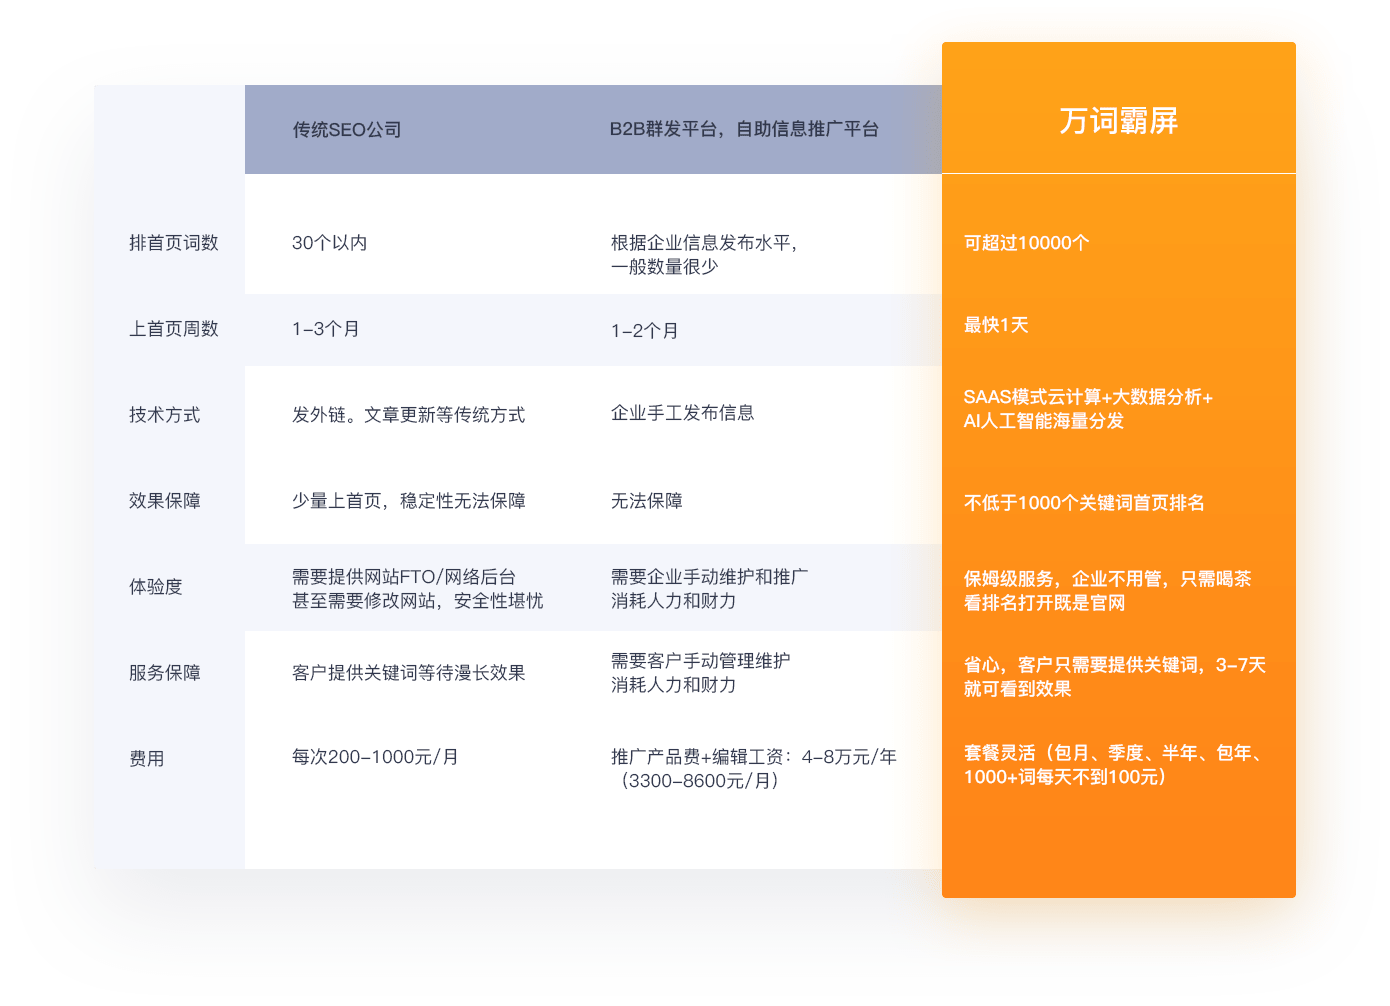
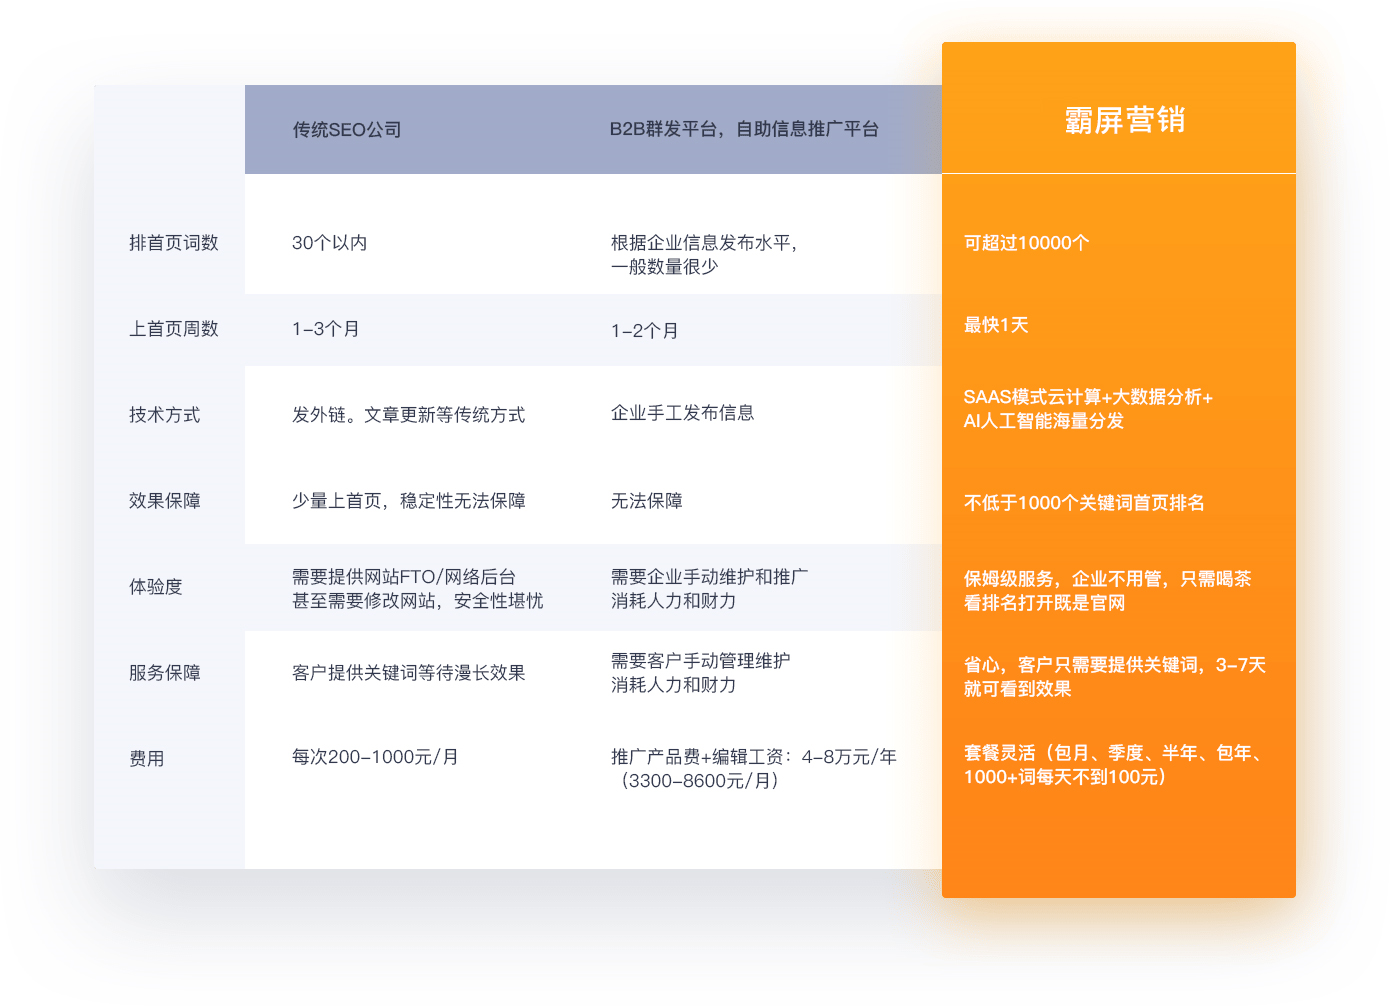
Signed-off-by: freezingChb <123@qq.com>

diff --git a/src/views/seo.vue b/src/views/seo.vue
@@ -1,7 +1,7 @@
 <template>
   <div class="seo">
     <div class="banner">
-      <!-- <p class="tit">万词霸屏</p>
+      <!-- <p class="tit">霸屏营销</p>
       <p class="desc">0风险效果保证！承诺7个工作日，数量不达标，全额退款
         快速启动网络营销项目，时间最快，成本最低，见效快
         24小时在线， 点击不扣费
@@ -36,14 +36,14 @@
     </div>
     <div class="more">
       <dl>
-        <dt>万词霸屏</dt>
-        <dd class="em" v-text="'万词霸屏主要为企业提供便捷、高效、智能、安\n全、可监测的全搜索引擎关键词首页抢排名位的\n推广服务。\n\n帮助客户霸屏全网搜索引擎，为客户解决网络营\n销困局。'">
+        <dt>霸屏营销</dt>
+        <dd class="em" v-text="'霸屏营销主要为企业提供便捷、高效、智能、安\n全、可监测的全搜索引擎关键词首页抢排名位的\n推广服务。\n\n帮助客户霸屏全网搜索引擎，为客户解决网络营\n销困局。'">
         </dd>
       </dl>
     </div>
     <div class="why-do">
       <div class="tit">
-        <p class="txt">为什么要做万词霸屏</p>
+        <p class="txt">为什么要做霸屏营销</p>
         <p class="bottom"></p>
       </div>
       <ul class="whydo-list">

diff --git a/src/views/index.vue b/src/views/index.vue
@@ -74,7 +74,7 @@
     </div>
     <div class="more">
       <dl>
-        <dt>掌投平台是目前国内效果突出的一站式品牌营销供应商，凭借敏锐的市场洞察和多年深耕行业的经验，掌投平台拥有短视频营销、小红书推广、万词霸屏、网红直播、软文营销等近万家优质营销资源。</dt>
+        <dt>掌投平台是目前国内效果突出的一站式品牌营销供应商，凭借敏锐的市场洞察和多年深耕行业的经验，掌投平台拥有短视频营销、小红书推广、霸屏营销、网红直播、软文营销等近万家优质营销资源。</dt>
         <dd class="desc">
           掌投平台一直秉承“去中间化赋能新营销”为核心，帮助广告代理商深度挖掘客户价值，实现整合资源的最佳收益，打造属于自己的商业闭环。</dd>
         <dd class="more-btn" @click="jump('about')">
@@ -134,7 +134,7 @@ export default {
         {
           icon: "01-5-min.png",
           iconHover: "01-13-min.png",
-          tit: "万词霸屏",
+          tit: "霸屏营销",
           path: "seo"
         },
         {

diff --git a/src/views/about.vue b/src/views/about.vue
@@ -12,7 +12,7 @@
         <p class="txt">公司介绍</p>
         <p class="bottom"></p>
       </div>
-      <p class="intro-txt">掌投平台是目前国内效果突出的一站式品牌营销供应商，凭借敏锐的市场洞察和多年深耕行业的经验，掌投平台拥有短视频营销、小红书推广、万词霸屏、网红直播、软文营销等近万家优质营销资源。
+      <p class="intro-txt">掌投平台是目前国内效果突出的一站式品牌营销供应商，凭借敏锐的市场洞察和多年深耕行业的经验，掌投平台拥有短视频营销、小红书推广、霸屏营销、网红直播、软文营销等近万家优质营销资源。
 
         掌投平台一直秉承“去中间化赋能新营销”为核心，帮助广告代理商深度挖掘客户价值，实现整合资源的最佳收益，打造属于自己的商业闭环。</p>
       <div class="intro-img"></div>

diff --git a/src/router/index.js b/src/router/index.js
@@ -6,7 +6,7 @@ import about from "@/views/about"; //关于我们
 import help from "@/views/help"; //帮助中心
 import wechat from "@/views/wechat"; //微信营销
 import qa from "@/views/qa"; //问答营销
-import seo from "@/views/seo"; //万词霸屏
+import seo from "@/views/seo"; //霸屏营销
 import video from "@/views/video"; //视频营销
 import article from "@/views/article"; //软文营销
 import agent from "@/views/agent"; //代理营销
@@ -68,7 +68,7 @@ let router = new Router({
           name: "seo",
           component: seo,
           meta: {
-            title: "万词霸屏"
+            title: "霸屏营销"
           }
         },
         {

diff --git a/src/components/header.vue b/src/components/header.vue
@@ -51,7 +51,7 @@ export default {
           path: "qa"
         },
         {
-          tit: "万词霸屏",
+          tit: "霸屏营销",
           path: "seo"
         },
         {

diff --git a/掌投注册接口.md b/掌投注册接口.md
@@ -1,0 +1,26 @@
+**接口地址**
+
+`http://adm.zhangtou.pr010.com/home/home/addContact`
+
+**接口说明**
+
+掌投注册接口，支持ajax跨域
+
+**参数**
+
+name  称呼   必填
+
+tel  手机号  必填
+
+company  公司  非必填
+
+job  职务  非必填
+
+area  感兴趣的领域  非必填
+
+**返回**
+
+`{status: 0, info: "请填写您的称呼"}`
+
+status  1 成功 2 失败
+info  提示信息
